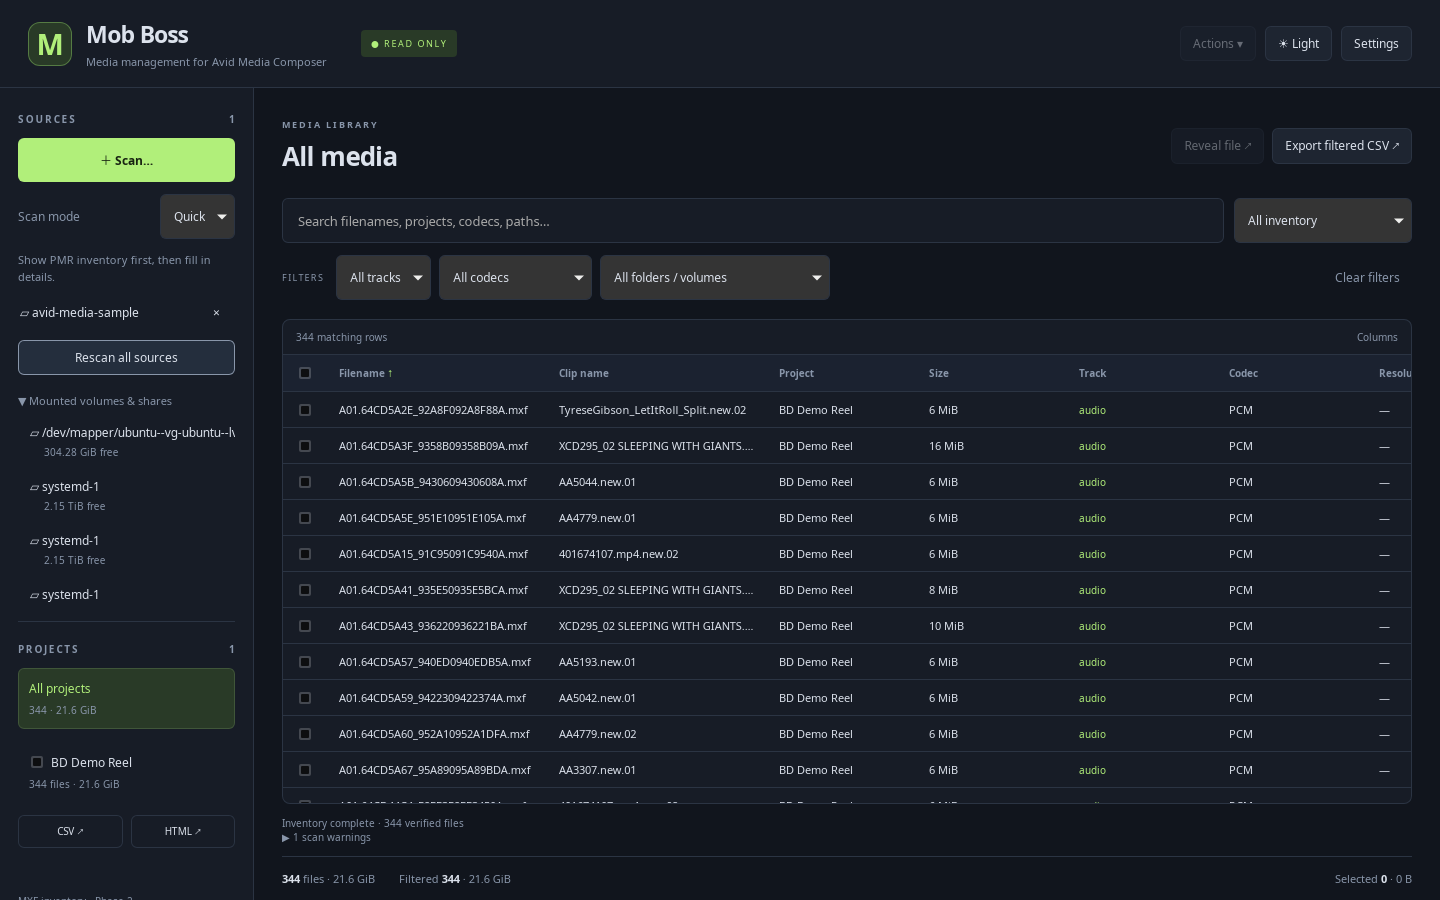
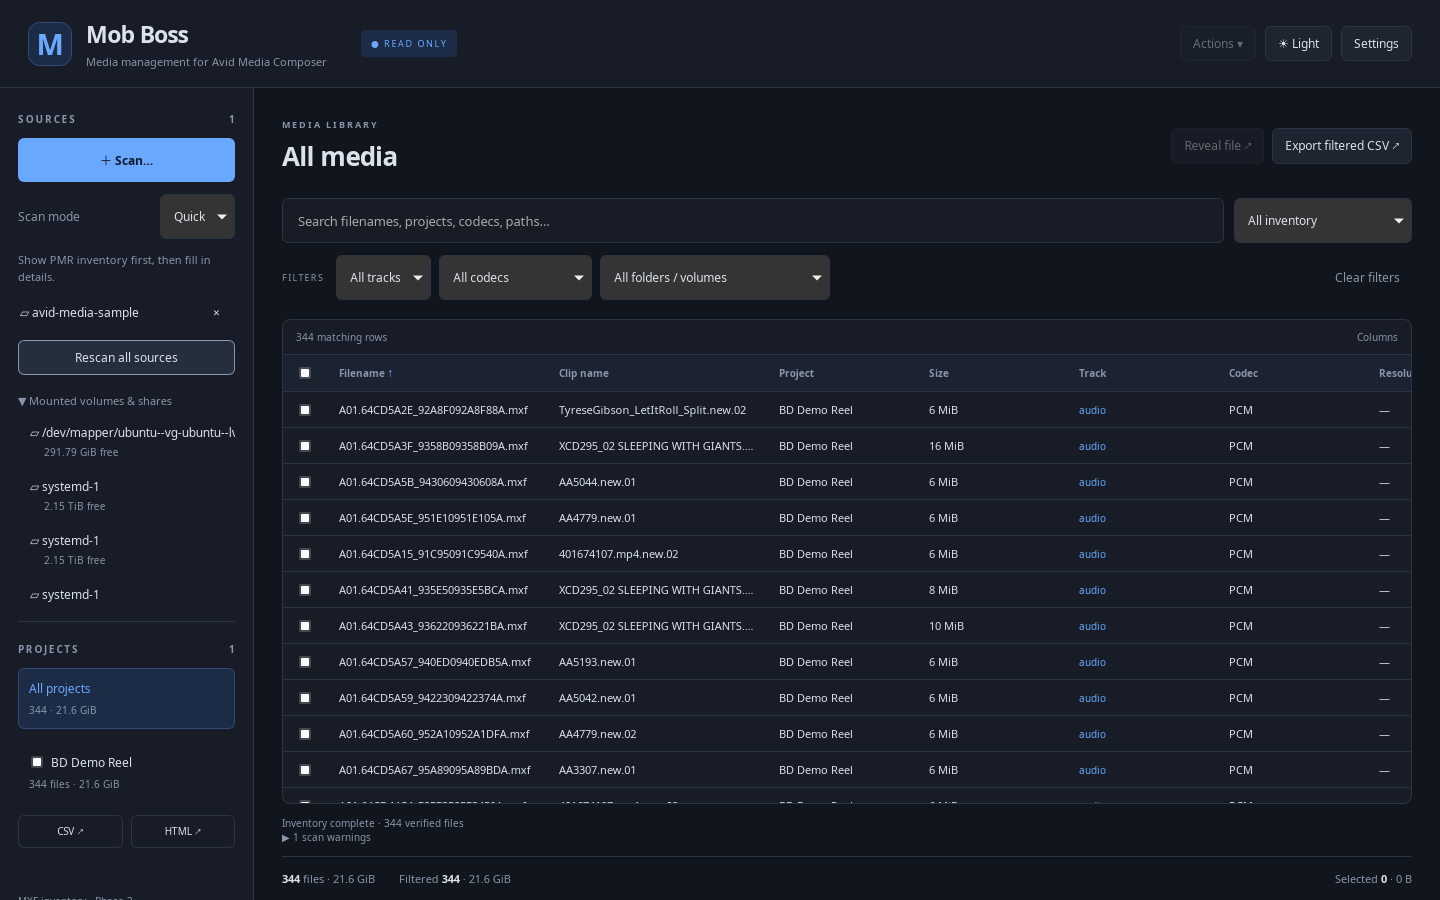
Replace green accents with blue theme tokens and refresh native screenshots

diff --git a/apps/desktop/src/style.css b/apps/desktop/src/style.css
@@ -14,8 +14,10 @@
   --line: #2b3443;
   --text: #dce2ec;
   --muted: #8996aa;
-  --accent: #b1ef7a;
-  --accent-bg: #293a27;
+  --accent: #6aa8ff;
+  --accent-bg: #1c2c47;
+  --accent-border: #2f4a75;
+  --on-accent: #0f1a2c;
   --head: #1b2230;
   --hover: #242e3d;
   color-scheme: dark;
@@ -55,7 +57,7 @@ button:disabled {
 }
 button.primary {
   background: var(--accent);
-  color: #192412;
+  color: var(--on-accent);
   border-color: transparent;
   font-weight: 650;
 }
@@ -97,7 +99,7 @@ header {
   place-items: center;
   color: var(--accent);
   background: var(--accent-bg);
-  border: 1px solid #557b43;
+  border: 1px solid var(--accent-border);
   font-weight: 900;
   border-radius: 12px;
   width: 44px;
@@ -248,7 +250,7 @@ aside {
 }
 .project.active {
   background: var(--accent-bg);
-  border-color: #405639;
+  border-color: var(--accent-border);
   color: var(--accent);
 }
 .summary-exports {
@@ -594,17 +596,15 @@ progress {
   --line: #dce1e8;
   --text: #202b3b;
   --muted: #68778c;
-  --accent: #3c781a;
-  --accent-bg: #edf5e7;
+  --accent: #1f5fd1;
+  --accent-bg: #e8f0fd;
+  --accent-border: #b8cdf3;
+  --on-accent: #ffffff;
   --head: #f5f7f9;
   --hover: #edf1f6;
   color: var(--text);
   background: var(--bg);
   color-scheme: light;
-}
-[data-theme="light"] button.primary {
-  background: #a9e976;
-  color: #18310e;
 }
 @media (max-width: 1100px) {
   aside {
